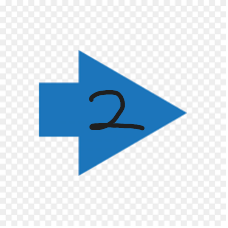
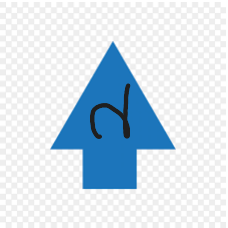
implemented reboot effect in game board and changed orientation of robots to face up

Changed region(s): [[0.1535, 0.1842, 0.8289, 0.8596]]

diff --git a/src/main/java/client/controller/GameBoardController.java b/src/main/java/client/controller/GameBoardController.java
@@ -5,6 +5,7 @@ import com.google.gson.Gson;
 import javafx.application.Platform;
 import javafx.fxml.FXML;
 import javafx.fxml.Initializable;
+import javafx.scene.control.ChoiceDialog;
 import javafx.scene.image.ImageView;
 import javafx.scene.layout.GridPane;
 import javafx.scene.layout.Pane;
@@ -12,10 +13,7 @@ import server.message.Message;
 import server.message.MessageBody;
 
 import java.net.URL;
-import java.util.HashMap;
-import java.util.Map;
-import java.util.Objects;
-import java.util.ResourceBundle;
+import java.util.*;
 
 public class GameBoardController implements Initializable {
 
@@ -156,6 +154,8 @@ public class GameBoardController implements Initializable {
 //                // No rotation needed for "up"
 //                break;
 //        }
+        //TODO change this to else if when there are more maps
+        robotImage.setRotate(90);
 
         Platform.runLater(() -> {
             // Update the grid with the robot image
@@ -211,6 +211,7 @@ public class GameBoardController implements Initializable {
 
     }
 
+    // robot turn function
     public void handleRobotTurn(MessageBody messageBody){
         int clientID = messageBody.getClientID();
         String rotation = messageBody.getRotation();
@@ -248,8 +249,58 @@ public class GameBoardController implements Initializable {
         });
     }
 
+    // robot reboot
+    public void handleReboot(MessageBody messageFromHandlerBody){
+        Platform.runLater(() -> {
+
+            // reset robot direction back to default
+            ImageView robotImage = null;
+            for (javafx.scene.Node node : game_grid.getChildren()) {
+                if (node instanceof ImageView && messageFromHandlerBody.getClientID() == Integer.parseInt(node.getId())) {
+                    robotImage = (ImageView) node;
+                    break;
+                }
+            }
+            assert robotImage != null;
+            robotImage.setRotate(0);
+        });
+    }
+    // pop up for rebooting client
+    public void sendRebootPopup() {
+        Platform.runLater(() -> {
+            // Define the reboot direction options
+            String[] directions = {"Up", "Down", "Left", "Right"};
+
+            // Create a ChoiceDialog with the options
+            ChoiceDialog<String> dialog = new ChoiceDialog<>(directions[0], directions);
+            dialog.setTitle("Reboot Direction");
+            dialog.setHeaderText("Reboot Required!");
+            dialog.setContentText("Choose a direction to reboot:");
+
+            // Show the dialog and wait for user input
+            Optional<String> result = dialog.showAndWait();
+
+            // Handle the user's choice
+            result.ifPresent(chosenDirection -> {
+                System.out.println("User chose to reboot in the direction: " + chosenDirection);
+
+                // Send the chosen direction back to the server
+                Message rebootMessage = new Message();
+                rebootMessage.setMessageType("RebootDirection");
+                MessageBody rebootMessageBody = new MessageBody();
+                rebootMessageBody.setDirection(chosenDirection);
+                rebootMessage.setMessageBody(rebootMessageBody);
+
+                client.sendToClientHandler(gson.toJson(rebootMessage));
+            });
+        });
+    }
+
+
 
     public void addClientIDRobotID(int ClientID , int RobotID){
         ClientIDRobotID.put(ClientID , RobotID);
     }
+
+
 }

diff --git a/src/main/java/server/ClientHandler.java b/src/main/java/server/ClientHandler.java
@@ -129,6 +129,27 @@ public class ClientHandler implements Runnable{
                     case "SetStartingPoint":
                         handleSetStartingPoint(clientMessageBody);
                         break;
+                    case "RebootDirection":
+                        String direction = clientMessageBody.getDirection();
+                        switch (direction){
+                            case "Right":
+                                broadcastMessage(createRotationMessage(clientID, "clockwise"));
+                                break;
+                            case "Left":
+                                broadcastMessage(createRotationMessage(clientID, "counterclockwise"));
+                                break;
+                            case "Up":
+                                break;
+                            case "Down":
+                                broadcastMessage(createRotationMessage(clientID, "clockwise"));
+                                broadcastMessage(createRotationMessage(clientID, "clockwise"));
+                                break;
+                            default:
+                                System.out.println("direction invalid for reboot");
+                        }
+                        // TODO send robot move message so that robot moves to reboot square
+                        // TODO send rotate message based on direction of choice sent by user in this switch case. ( access through client message body)
+                        break;
 
                 }
             }
@@ -184,7 +205,10 @@ public class ClientHandler implements Runnable{
             pm.setMessageBody(pmb);
             broadcastMessage(gson.toJson(pm));
             broadcastMessage(createMovementMessage(1,6,6)); // TODO remove this test later
-            broadcastMessage(createRotationMessage(2 , "clockwise")); // TODO remove this test later
+//            broadcastMessage(createRotationMessage(2 , "clockwise")); // TODO remove this test later
+            broadcastMessage(createRebootMessage(2));
+            broadcastMessage(createMovementMessage(2,9,9));
+
 
         }else{
             //create private message from server
@@ -311,7 +335,7 @@ public class ClientHandler implements Runnable{
         return gson.toJson(animationMessage);
     }
     // reboot
-    private String createRobootMessage (int ClientID){
+    private String createRebootMessage (int ClientID){
         Message rebootMessage = new Message();
         rebootMessage.setMessageType("Reboot");
         MessageBody rebootMessageBody = new MessageBody();

diff --git a/src/main/java/client/Client.java b/src/main/java/client/Client.java
@@ -213,6 +213,12 @@ public class Client {
                             case "PlayerTurning":
                                 gameBoardController.handleRobotTurn(messageFromHandlerBody);
                                 break;
+                            case "Reboot":
+                                gameBoardController.handleReboot(messageFromHandlerBody);
+                                if(clientID == messageFromHandlerBody.getClientID()){
+                                    gameBoardController.sendRebootPopup();
+                                }
+                                break;
                         }
                     } catch (IOException e) {
                         System.out.println("error when receiving clienthandler message");
